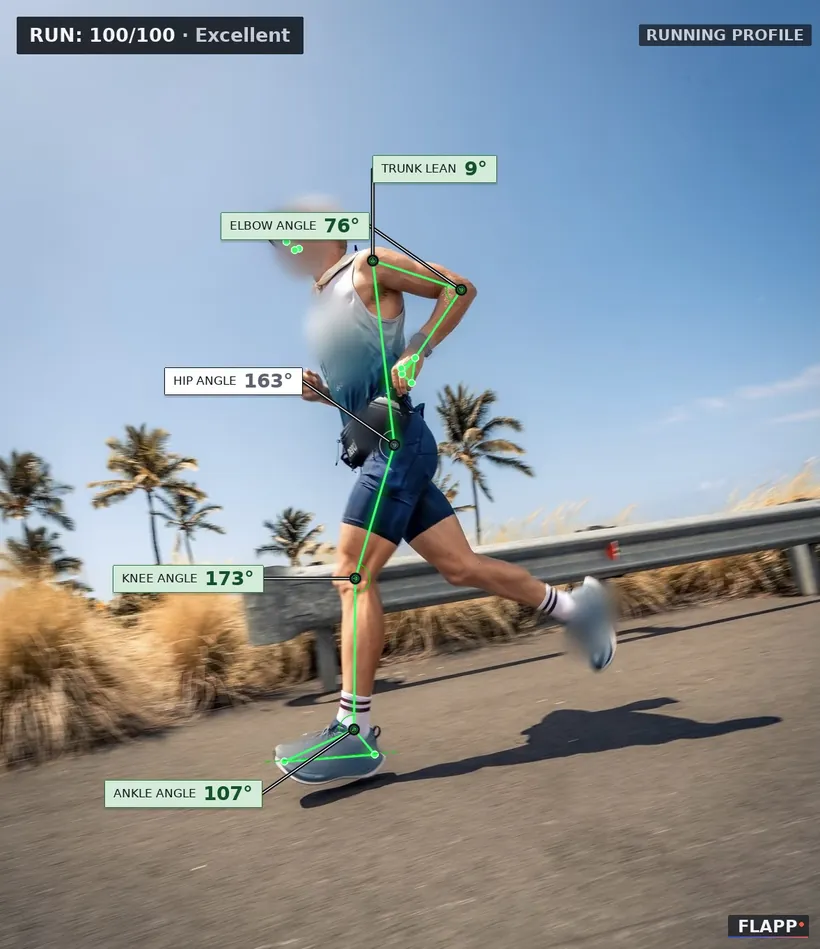
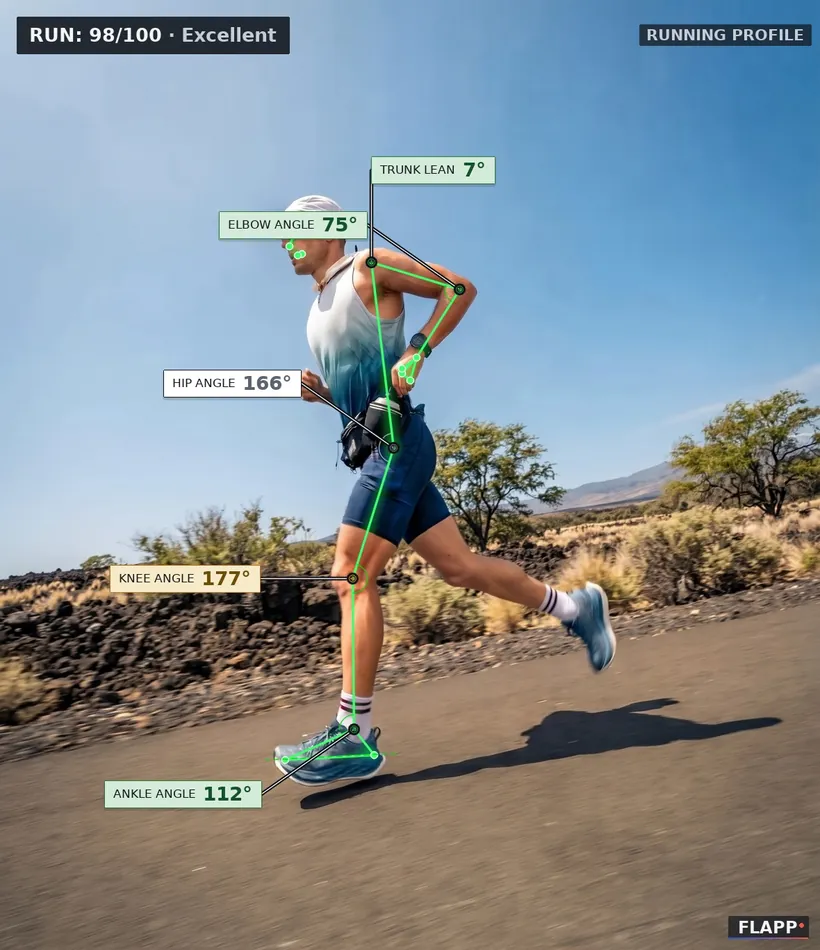
Landing: the race photos are edited, not blurred, and measured as shown
The three race photos were edited in Gemini: a fictional face, every sponsor
mark, race number and tattoo removed, one background replaced. Checked
against the originals: joints moved under 1.1 % of body height on two photos
and under 2.5 % on the third -- within what the pose model moves on the same
unedited photo shifted three pixels or re-saved as JPEG (angles up to ~6 deg).

The analysis now runs on the edited image at the original width, so the
overlay prints what was measured on exactly the picture shown, and every
caption says "edited". The How it works note follows the new reading: 98/100
with the knee in amber (176.8 against a band ending at 175), not "nothing to
fix". scripts/landing_race_photos.py replaces the blur script.

Changed region(s): [[0.0, 0.1528, 1.0, 0.8556], [0.0915, 0.0, 0.3963, 0.0611], [0.7927, 0.0306, 0.8537, 0.0611]]

diff --git a/backend/app/static/landing.html b/backend/app/static/landing.html
@@ -1153,10 +1153,12 @@ footer .wordmark .wm-tile .mark{width:25px;height:20px}
      stopwatch loop on the left, ending on the re-check, and one real analysis
      on the right playing raw -> reading -> verdict.
 
-     The photograph is a race photo, not one of ours: the face and every
-     sponsor mark are blurred (scripts/anonymize_landing_photos.py), and the
-     pose was measured on the original so the angles are the athlete's, not
-     the blur's. The caption says both. -->
+     The photograph is a race photo, not one of ours, edited before it was
+     used: the face is replaced with a fictional one, every sponsor mark is
+     removed and the background is changed (scripts/landing_race_photos.py
+     has the details and the pose check). The analysis ran on the edited
+     image, so the numbers are measured on exactly what is shown. The caption
+     says it is edited. -->
 <section id="how" class="how">
   <div class="wrap">
     <div class="track-head">
@@ -1212,9 +1214,9 @@ footer .wordmark .wm-tile .mark{width:25px;height:20px}
       <figure class="stage-photo">
         <div class="tp-screen">
           <img class="tp-shot tp-raw" src="media/race-frame-raw.webp" loading="lazy" width="820" height="949"
-               alt="A triathlete running on a road lined with palm trees, photographed side-on mid-stride; face and sponsor marks blurred">
+               alt="A triathlete running on a road past black lava rock and scrub, photographed side-on mid-stride from a low angle">
           <img class="tp-shot tp-over" src="media/race-frame-overlay.webp" loading="lazy" width="820" height="949"
-               alt="The same photo as Flapp returned it: skeleton overlay with trunk lean 9 degrees, elbow 76, hip 163, knee 173 and ankle 107, scored 100 out of 100">
+               alt="The same photo as Flapp returned it: skeleton overlay with trunk lean 7 degrees, elbow 75, hip 166, knee 177 in amber and ankle 112, scored 98 out of 100">
           <div class="tp-corners" aria-hidden="true"><i></i><i></i><i></i><i></i></div>
           <div class="tp-scan" aria-hidden="true"></div>
           <span class="tp-badge tp-b-rec"><i></i>Side view · captured</span>
@@ -1222,10 +1224,15 @@ footer .wordmark .wm-tile .mark{width:25px;height:20px}
         </div>
         <figcaption class="tp-note">
           <span class="tp-note-lbl">One photo, measured</span>
-          <p>A race photo through the same analysis your clip gets: every angle inside its band —
-            <b>nothing to fix on this one.</b> When something is out, it comes back red, with the drill
-            that closes the gap.</p>
-          <p class="tp-fine">Face and sponsor marks blurred for this page; the angles were measured on the original.</p>
+          <!-- The knee reads 176.8 against a band that ends at 175: amber, a
+               reading at the edge of the band rather than a fault. Say that,
+               rather than "nothing to fix", which the amber label beside it
+               would contradict. -->
+          <p>A race photo through the same analysis your clip gets: <b>98 / 100.</b> One reading in
+            amber — the knee, a couple of degrees past straight at mid-stance: borderline, not a fault.
+            When something is really out, it comes back red, with the drill that closes the gap.</p>
+          <p class="tp-fine">Race photo, edited for this page: face and sponsor marks replaced, background
+            changed. The angles are measured on the image you see.</p>
         </figcaption>
       </figure>
     </div>
@@ -1369,15 +1376,15 @@ footer .wordmark .wm-tile .mark{width:25px;height:20px}
     <h2 class="sec rv" data-d="1">Built for runners.<br>Built for <span class="accent">cyclists.</span></h2>
     <div class="paths">
       <!-- Each card leads with a real analysis of its sport. The run photo is a
-           race photo with the face and sponsor marks blurred (see HOW IT
-           WORKS); the ride is the "after" from the before/after above.
+           race photo, edited like the others (see HOW IT WORKS); the ride
+           is the "after" from the before/after above.
            The run card used to promise injury prevention ("most running
            injuries trace back to mechanics") -- a causal claim the literature
            does not support well enough to sell on. It now promises what the
            tool does: show the stride you cannot see. -->
       <div class="path run rv" data-d="1">
         <img class="p-shot" src="media/race-run-card.webp" width="800" height="622" loading="lazy"
-             alt="A triathlete running past dry grass by the ocean, side-on, with Flapp's skeleton overlay: trunk lean 10 degrees, elbow 102, hip 141, knee 150, ankle 82; face and sponsor marks blurred">
+             alt="A triathlete running past dry grass by the ocean, side-on, with Flapp's skeleton overlay: trunk lean 8 degrees, elbow 96, hip 140, knee 146, ankle 80">
         <p class="p-eyebrow">Running · side view</p>
         <h3>See the stride you can't feel</h3>
         <p class="p-lede">At full speed you can't see your own trunk lean or where your foot lands.
@@ -1388,7 +1395,7 @@ footer .wordmark .wm-tile .mark{width:25px;height:20px}
           <li><svg viewBox="0 0 16 16" fill="none"><path d="M3 8.5l3 3 7-7" stroke="currentColor" stroke-width="2" stroke-linecap="round" stroke-linejoin="round"/></svg>Gait-phase overlay: contact, stance and toe-off on your own video — step through it frame by frame, every angle as a curve</li>
           <li><svg viewBox="0 0 16 16" fill="none"><path d="M3 8.5l3 3 7-7" stroke="currentColor" stroke-width="2" stroke-linecap="round" stroke-linejoin="round"/></svg>Drills ranked by impact in your action plan</li>
         </ul>
-        <p class="p-foot">Treadmill or outdoor · any pace<span class="p-credit">Race photo · face &amp; marks blurred</span></p>
+        <p class="p-foot">Treadmill or outdoor · any pace<span class="p-credit">Race photo, edited · face &amp; sponsor marks replaced</span></p>
       </div>
       <div class="path ride rv" data-d="2">
         <img class="p-shot" src="media/after.webp" loading="lazy"
@@ -1473,7 +1480,7 @@ footer .wordmark .wm-tile .mark{width:25px;height:20px}
 </section>
 
 <!-- ================= FINAL CTA ================= -->
-<!-- The closing band carries a race photo on its right, blurred like the
+<!-- The closing band carries a race photo on its right, edited like the
      others and captioned as such. On a phone it drops under the button,
      shorter, so the call to action stays first. -->
 <div class="cta-band has-photo">
@@ -1495,8 +1502,8 @@ footer .wordmark .wm-tile .mark{width:25px;height:20px}
     </div>
     <figure class="cta-shot">
       <img src="media/race-run-overlay.webp" width="900" height="1175" loading="lazy"
-           alt="A triathlete running beside the ocean, side-on, with Flapp's skeleton overlay: trunk lean 4 degrees, elbow 67, hip 151, knee 162, ankle 107, scored 97 out of 100; face and sponsor marks blurred">
-      <figcaption>Race photo · face &amp; marks blurred · measured on the original</figcaption>
+           alt="A triathlete running beside the ocean, side-on, with Flapp's skeleton overlay: trunk lean 3 degrees, elbow 64 in amber, hip 153, knee 163, ankle 106, scored 94 out of 100">
+      <figcaption>Race photo, edited · face &amp; sponsor marks replaced · measured on this image</figcaption>
     </figure>
   </div>
 </div>

diff --git a/backend/scripts/landing_race_photos.py b/backend/scripts/landing_race_photos.py
@@ -1,0 +1,104 @@
+"""Build the landing page's race-photo media from the edited photographs.
+
+The three race photos on the landing are not published as taken. Each was
+edited (Gemini image editing, 2026-10-18) to replace the athlete's face with a
+fictional one and to remove every sponsor mark, race number and tattoo; one
+also got a different background. The pose was checked against the original:
+joints moved under 1.1 % of body height on two photos and under 2.5 % on the
+third, which is within what the pose model itself moves when the same image is
+shifted three pixels or re-saved as JPEG (angles up to ~6 deg on a single
+still). The page says the photos are edited.
+
+The analysis runs on the EDITED image -- the numbers printed on the overlay
+are measured on exactly the picture the visitor sees.
+
+Usage:
+    python scripts/landing_race_photos.py <edited_dir> <media_dir>
+
+<edited_dir> holds IMG_5145_edit.*, IMG_5146_edit.*, IMG_5148_edit.* (any
+image format); <media_dir> is app/static/media.
+"""
+
+from __future__ import annotations
+
+import base64
+import io
+import sys
+from pathlib import Path
+
+from PIL import Image
+
+# The originals were 1178-1179px wide.
+SOURCE_WIDTH = 1180
+
+BACKEND = Path(__file__).resolve().parents[1]
+if str(BACKEND) not in sys.path:
+    sys.path.insert(0, str(BACKEND))
+
+
+def _find(src: Path, stem: str) -> Path:
+    hits = sorted(p for p in src.iterdir() if p.stem == stem)
+    if not hits:
+        raise SystemExit(f"missing {stem}.* in {src}")
+    return hits[0]
+
+
+def _source(path: Path) -> Image.Image:
+    """The edit at the original photo's width. The image editor returns ~1920px;
+    the overlay's labels are sized for a phone photo, and at 1920 they print at
+    two thirds of the size they have on every other image on the page."""
+    img = Image.open(path).convert("RGB")
+    if img.width > SOURCE_WIDTH:
+        img = img.resize((SOURCE_WIDTH, round(img.height * SOURCE_WIDTH / img.width)), Image.LANCZOS)
+    return img
+
+
+def _overlay(path: Path) -> tuple[Image.Image, dict]:
+    from app.services.video_analysis.photo_analyzer import analyze_photo
+
+    buf = io.BytesIO()
+    _source(path).save(buf, "PNG")
+    res = analyze_photo(buf.getvalue(), "run")
+    thumb = res.pop("thumbnail_base64").split(",", 1)[-1]
+    img = Image.open(io.BytesIO(base64.b64decode(thumb))).convert("RGB")
+    return img, res
+
+
+def _save(img: Image.Image, out: Path, width: int, quality: int = 80) -> None:
+    if img.width > width:
+        img = img.resize((width, round(img.height * width / img.width)), Image.LANCZOS)
+    img.save(out, "WEBP", quality=quality, method=6)
+    print(out.name, img.size)
+
+
+def _crop_frac(img: Image.Image, box: tuple[float, float, float, float]) -> Image.Image:
+    w, h = img.size
+    return img.crop((round(box[0] * w), round(box[1] * h), round(box[2] * w), round(box[3] * h)))
+
+
+def main() -> int:
+    src, media = Path(sys.argv[1]), Path(sys.argv[2])
+
+    # How it works: the photo that went in, and what came back.
+    p = _find(src, "IMG_5148_edit")
+    over, res = _overlay(p)
+    _save(_source(p), media / "race-frame-raw.webp", 820)
+    _save(over, media / "race-frame-overlay.webp", 820)
+    print("  5148", res["score"]["overall_score"], res["angles"])
+
+    # Running card: 4:3-ish crop around the runner, labels included.
+    p = _find(src, "IMG_5146_edit")
+    over, res = _overlay(p)
+    _save(_crop_frac(over, (0.068, 0.43, 0.848, 0.955)), media / "race-run-card.webp", 800)
+    print("  5146", res["score"]["overall_score"], res["angles"])
+
+    # Closing band.
+    p = _find(src, "IMG_5145_edit")
+    over, res = _overlay(p)
+    _save(over, media / "race-run-overlay.webp", 900)
+    print("  5145", res["score"]["overall_score"], res["angles"])
+    return 0
+
+
+if __name__ == "__main__":
+    raise SystemExit(main())

diff --git a/backend/tests/test_compare_before_after.py b/backend/tests/test_compare_before_after.py
@@ -213,5 +213,6 @@ def test_the_how_it_works_loop_ends_on_the_recheck_beside_a_real_analysis():
     for src in ("media/race-frame-raw.webp", "media/race-frame-overlay.webp"):
         assert f'src="{src}"' in how
         assert (SPA.parent / src).exists()
-    # The photo is somebody else's race photo: the page has to say so.
-    assert "blurred" in how and "measured on the original" in how
+    # The photo is somebody else's race photo, edited: the page has to say
+    # both, and that the numbers are measured on the picture shown.
+    assert "edited" in how and "measured on the image you see" in how
